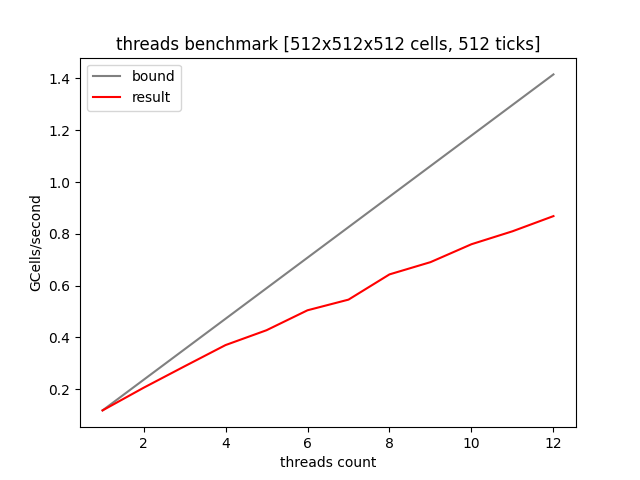
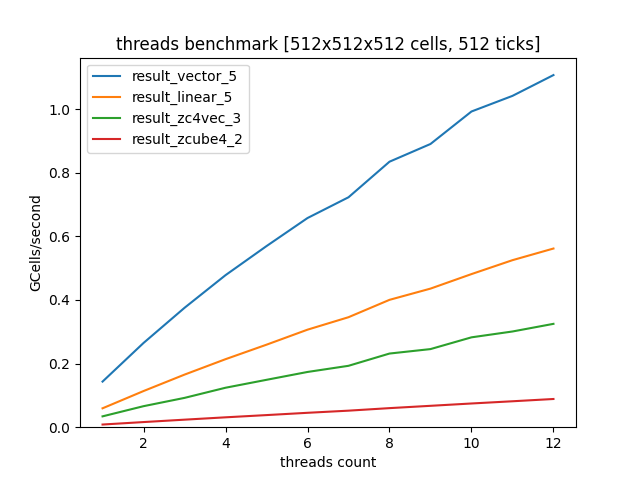
main tests

diff --git a/result/geoserver/benchviz.py b/result/geoserver/benchviz.py
@@ -5,25 +5,22 @@ import matplotlib.pyplot as plt
 import pandas as pd
 
 if __name__ == "__main__":
-    if len(sys.argv) != 3:
-        print('usage: ', sys.argv[0], ' DATA_CSV OUTPUT_PNG\n')
+    if len(sys.argv) < 3:
+        print('usage: ', sys.argv[0], ' DATA_CSV [DATA_CSV...] OUTPUT_PNG\n')
         sys.exit()
-
-    name = str(sys.argv[1])
-    bench = pd.read_csv(name)
 
     fig, ax = plt.subplots()
     ax.set_title('threads benchmark [512x512x512 cells, 512 ticks]')
     ax.set_xlabel('threads count')
     ax.set_ylabel('GCells/second')
 
-    bound = bench['threads'] * (512**4 / (1e9 * bench['time'][0]))
-    ax.plot(bench['threads'], bound, color='grey', label='bound')
+    for idx in range(1, len(sys.argv) - 1):
+        name = str(sys.argv[idx])
+        bench = pd.read_csv(name)
+        ax.plot(bench['threads'], bench['gcells'], label=name.split(".")[0])
 
-    ax.plot(bench['threads'], 512**4 / (1e9 * bench['time']), 
-            color='red', label=name.split(".")[0])
-
+    ax.set_ylim(bottom=0, top=None)
     ax.legend()
 
-    plt.savefig(str(sys.argv[2]))
+    plt.savefig(str(sys.argv[len(sys.argv) - 1]))
 

diff --git a/result/geoserver/old/old_benchviz.py b/result/geoserver/old/old_benchviz.py
@@ -1,0 +1,29 @@
+#! /usr/bin/python
+
+import sys
+import matplotlib.pyplot as plt
+import pandas as pd
+
+if __name__ == "__main__":
+    if len(sys.argv) != 3:
+        print('usage: ', sys.argv[0], ' DATA_CSV OUTPUT_PNG\n')
+        sys.exit()
+
+    name = str(sys.argv[1])
+    bench = pd.read_csv(name)
+
+    fig, ax = plt.subplots()
+    ax.set_title('threads benchmark [512x512x512 cells, 512 ticks]')
+    ax.set_xlabel('threads count')
+    ax.set_ylabel('GCells/second')
+
+    bound = bench['threads'] * (512**4 / (1e9 * bench['time'][0]))
+    ax.plot(bench['threads'], bound, color='grey', label='bound')
+
+    ax.plot(bench['threads'], 512**4 / (1e9 * bench['time']), 
+            color='red', label=name.split(".")[0])
+
+    ax.legend()
+
+    plt.savefig(str(sys.argv[2]))
+

diff --git a/README.md b/README.md
@@ -1,2 +1,26 @@
 # geoacoustic
 Acoustic wave geomodelling package based on fdtd algorithms
+
+## run benchmarks
+To build and run benchmarks and store GCell/sec results in OUT.txt.
+
+#### on x86\_64
+```console
+$ cd x86build
+$ bash run.sh OUT.txt
+```
+
+#### on aarch64
+```console
+$ cd armbuild
+$ bash run.sh OUT.txt
+```
+
+Requires modern C++14 GNU/Clang compiler to be used
+Default compiler is GNU
+
+## contacts
+- telegram: [@geome\_try](https://t.me/geome_try)
+- mail:
+  - elchinov.es@phystech.edu
+  - elchinov.es@gmail.com
